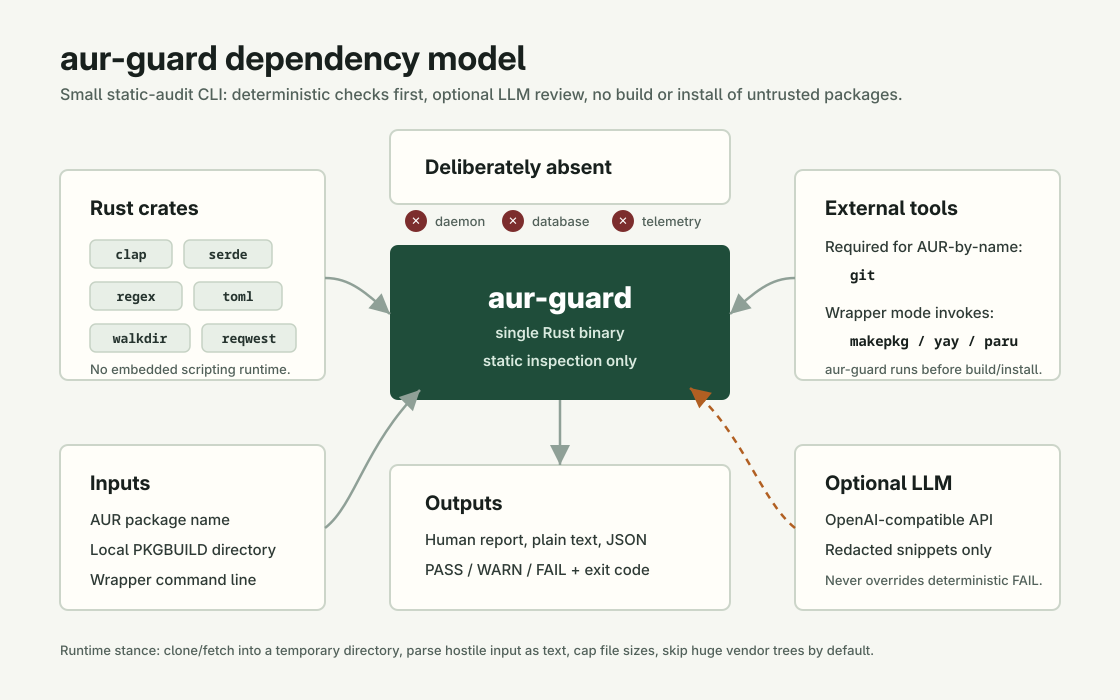
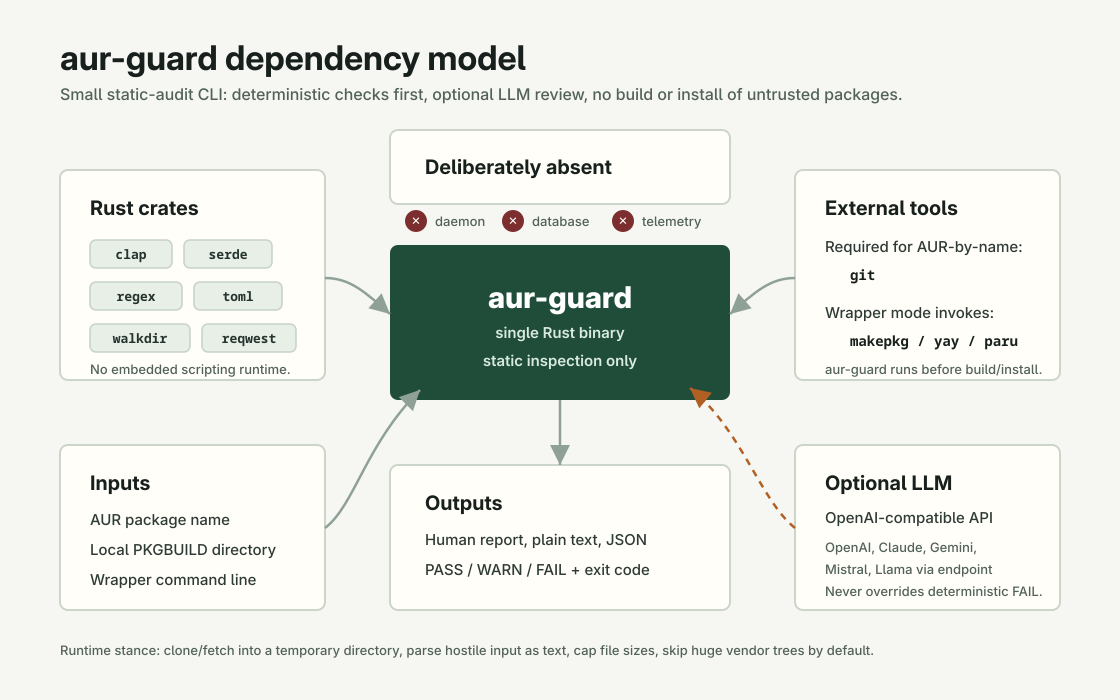
Document broader OpenAI-compatible LLM providers

Changed region(s): [[0.7188, 0.78, 0.9375, 0.87], [0.7188, 0.72, 0.875, 0.75]]

diff --git a/src/cli.rs b/src/cli.rs
@@ -48,6 +48,8 @@ pub struct AuditArgs {
     pub plain: bool,
 
     /// Enable optional OpenAI-compatible LLM review.
+    ///
+    /// Claude, Gemini, and other models require an OpenAI-compatible endpoint.
     #[arg(long)]
     pub llm: bool,
 

diff --git a/README.md b/README.md
@@ -61,6 +61,12 @@ Enable optional LLM review:
 OPENAI_API_KEY=... aur-guard audit --llm paru
 ```
 
+`aur-guard` speaks the OpenAI-compatible chat completions protocol. That works
+with OpenAI directly and with providers or gateways that expose the same API
+shape, including OpenRouter, LiteLLM, vLLM, Ollama-compatible gateways, and
+Claude, Gemini, Mistral, Llama, or other models when served through an
+OpenAI-compatible endpoint.
+
 Use as a makepkg wrapper:
 
 ```sh
@@ -165,6 +171,11 @@ It does not send entire repositories blindly. It redacts common secret shapes an
 local paths before sending prompts. LLM output is advisory text only and cannot
 downgrade deterministic FAIL findings.
 
+Provider note: `base_url` must expose an OpenAI-compatible `/chat/completions`
+endpoint. Native provider APIs with different request/response formats are not
+called directly; use a compatible endpoint or gateway for Claude, Gemini, or
+other non-OpenAI models.
+
 ## Source Handling
 
 `aur-guard audit <package>` clones `https://aur.archlinux.org/<package>.git` into
@@ -188,7 +199,8 @@ Keep:
 - audit by AUR package name
 - audit local package directory
 - makepkg wrapper workflow
-- OpenAI-compatible optional analysis
+- OpenAI-compatible optional analysis, including Claude/Gemini-style models when
+  routed through a compatible endpoint
 
 Remove:
 

diff --git a/SECURITY.md b/SECURITY.md
@@ -51,6 +51,11 @@ LLM mode is off by default. When enabled:
 - only deterministic findings and small relevant snippets are sent
 - LLM output is advisory and cannot downgrade deterministic findings
 
+The LLM client uses the OpenAI-compatible chat completions protocol. OpenAI can
+be used directly. Claude, Gemini, Mistral, Llama, local models, and other
+providers require an endpoint or gateway that presents the same
+`/chat/completions` API shape.
+
 LLMs can produce false positives and false negatives. Treat LLM notes as review
 hints, not as authorization to install.
 

diff --git a/COMPARISON.md b/COMPARISON.md
@@ -11,7 +11,8 @@ helpers.
 - standalone package audit command
 - local `--pkgdir` audit
 - makepkg/yay/paru style wrapper mode
-- OpenAI-compatible provider support
+- OpenAI-compatible provider support, including Claude/Gemini-style models when
+  exposed through a compatible endpoint or gateway
 - final report intended to guide manual review
 
 ## Removed